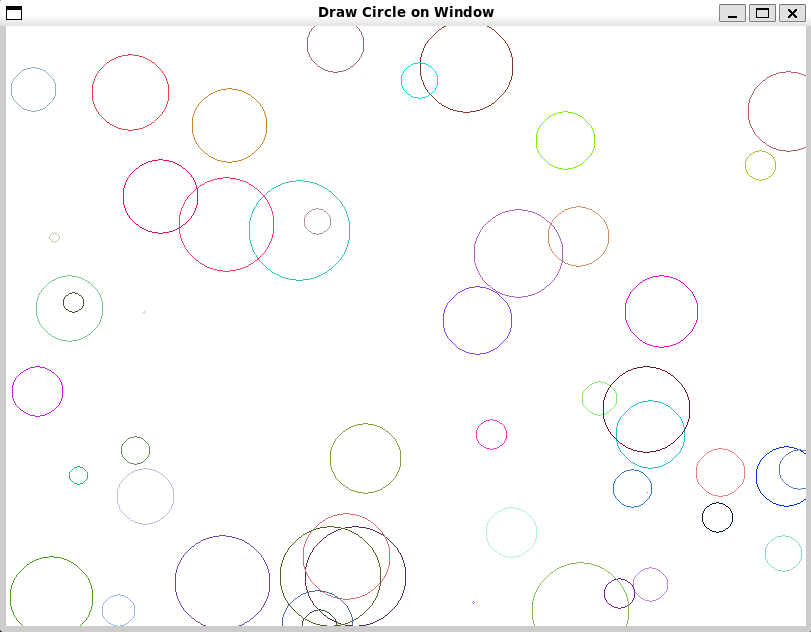
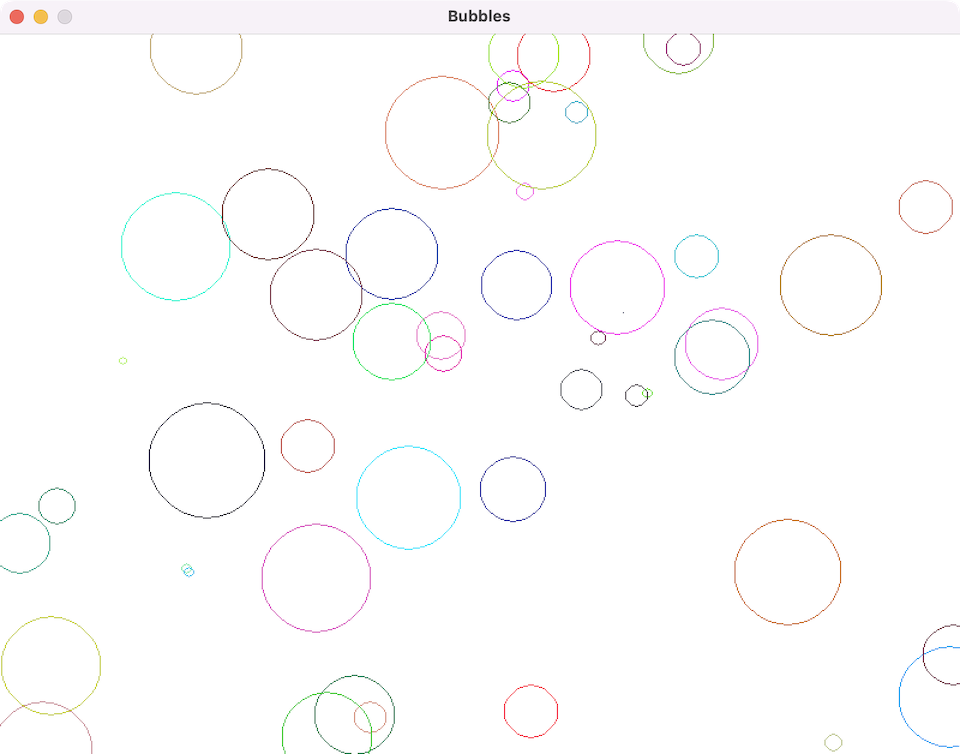
Updates + fixes

diff --git a/public/usage-examples/graphics/draw_circle_on_window/draw_circle_on_window-1-simple-oop.cs b/public/usage-examples/graphics/draw_circle_on_window/draw_circle_on_window-1-simple-oop.cs
@@ -6,32 +6,24 @@ namespace DrawCircleOnWindowExample
     {
         public static void Main()
         {
-            Window window = new Window("Draw Circle on Window", 800, 600);
-            window.Clear(Color.White);
+            Window window = new Window("Bubbles", 800, 600);
 
+            window.Clear(Color.White);
             for (int i = 0; i < 50; i++)
             {
-                // Set random x position to 1 - 800
+                // Set random circle values
                 double x = SplashKit.Rnd(800);
-
-                // Set random y position to 1 - 600
                 double y = SplashKit.Rnd(600);
-
-                // Set random radius to 1 - 50
                 double radius = SplashKit.Rnd(50);
-
-                Color randomColor = SplashKit.RGBColor(
-                    SplashKit.Rnd(255), SplashKit.Rnd(255), SplashKit.Rnd(255)
-                );
+                Color randomColor = SplashKit.RGBColor(SplashKit.Rnd(255), SplashKit.Rnd(255), SplashKit.Rnd(255));
 
                 // Draw the circle base on the random data
                 SplashKit.DrawCircleOnWindow(window, randomColor, x, y, radius);
             }
-
             window.Refresh();
+
             SplashKit.Delay(4000);
             window.Close();
         }
     }
 }
-

diff --git a/public/usage-examples/graphics/draw_circle_on_window/draw_circle_on_window-1-simple.py b/public/usage-examples/graphics/draw_circle_on_window/draw_circle_on_window-1-simple.py
@@ -1,26 +1,18 @@
 from splashkit import *
 
-window = open_window("Draw Circle on Window", 800, 600)
+window = open_window("Bubbles", 800, 600)
+
 clear_screen(color_white())
-
 for _ in range(50):
-    
-    # Set random x position to 1 - 800
-    x = rnd_range(0, 800)
-    
-    # Set random y position to 1 - 600
-    y = rnd_range(0, 600)
-    
-    # Set random radius to 1 - 50
-    radius = rnd_range(0, 50)
-
-    random_color = rgb_color(
-        rnd_range(0, 255), rnd_range(0, 255), rnd_range(0, 255)   
-    )
+    # Set random circle values
+    x = rnd_int(800)
+    y = rnd_int(600)
+    radius = rnd_int(50)
+    random_color = rgb_color(rnd_int(255), rnd_int(255), rnd_int(255))
 
     # Draw the circle base on the random data
     draw_circle_on_window(window, random_color, x, y, radius)
-
 refresh_screen()
+
 delay(4000)
 close_all_windows()

diff --git a/public/usage-examples/graphics/draw_circle_on_window/draw_circle_on_window-1-simple-top-level.cs b/public/usage-examples/graphics/draw_circle_on_window/draw_circle_on_window-1-simple-top-level.cs
@@ -1,29 +1,21 @@
 using SplashKitSDK;
 using static SplashKitSDK.SplashKit;
 
-Window window = OpenWindow("Draw Circle on Window", 800, 600);
+Window window = OpenWindow("Bubbles", 800, 600);
 
-ClearScreen();
-
+ClearScreen(ColorWhite());
 for (int i = 0; i < 50; i++)
 {
-    // Set random x position to 1 - 800
+    // Set random circle values
     double x = Rnd(800);
-
-    // Set random y position to 1 - 600
     double y = Rnd(600);
-
-    // Set random radius to 1 - 50
     double radius = Rnd(50);
-
-    Color randomColor = RGBColor(
-        Rnd(255), Rnd(255), Rnd(255)
-    );
+    Color randomColor = RGBColor(Rnd(255), Rnd(255), Rnd(255));
 
     // Draw the circle base on the random data
     DrawCircleOnWindow(window, randomColor, x, y, radius);
 }
-
 RefreshScreen();
+
 Delay(4000);
 CloseAllWindows();

diff --git a/public/usage-examples/graphics/draw_circle_on_window/draw_circle_on_window-1-simple.cpp b/public/usage-examples/graphics/draw_circle_on_window/draw_circle_on_window-1-simple.cpp
@@ -2,27 +2,22 @@
 
 int main()
 {
-    window window = open_window("Draw Circle on Window", 800, 600);
-    clear_screen();
+    window window = open_window("Bubbles", 800, 600);
     
+    clear_screen(COLOR_WHITE);
     for (int i = 0; i < 50; i++)
     {
-        // Set random x position to 1 - 800
+        // Set random circle values
         double x = rnd(800);
-
-        // Set random y position to 1 - 600
         double y = rnd(600);
-
-        // Set random radius to 1 - 50
         double radius = rnd(50);
-
         color randomColor = rgb_color(rnd(255), rnd(255), rnd(255));
 
         // Draw the circle base on the random data
         draw_circle_on_window(window, randomColor, x, y, radius);
     }
-    
     refresh_screen();
+    
     delay(4000);
     close_all_windows();
 
